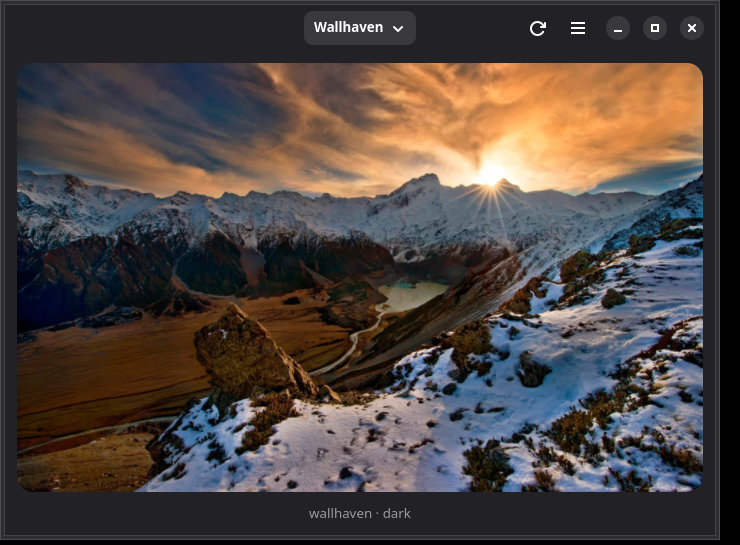
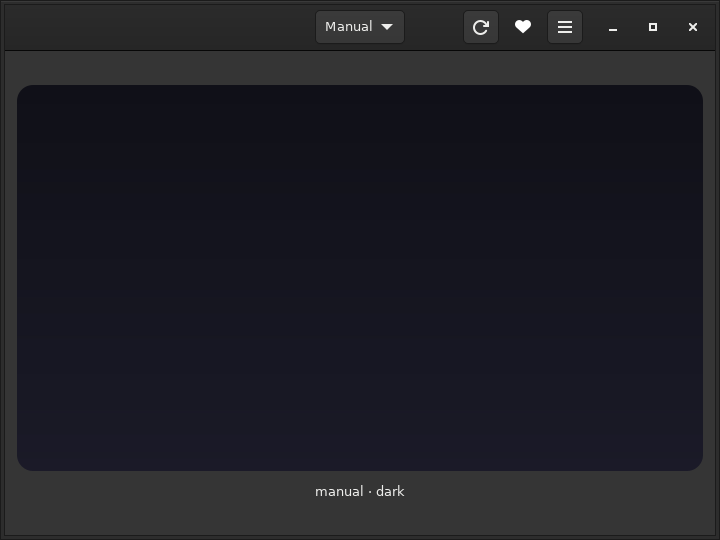
fix(ui): unlike animation + README screenshot refresh (#61)
* docs: refresh README screenshots (720x540, no dead margin)

Old screenshots were stale (pre-1.0 UI) and carried a black dead band on
the right/bottom from an oversized capture window. Re-captured at the
exact window content size on the dev VM: dark theme + dark wallpaper and
light theme + the same wallpaper.

* fix(ui): symmetric shrink animation when un-liking the heart

The pop animation only ran when a wallpaper was newly liked; removing a
favorite flipped the color back with no motion. Add a mirrored
heart-unpop keyframe set (scale 1 -> 0.82 -> 1, 250ms) driven by the
same CSS-class mechanism so the gesture feels symmetric in both
directions.

diff --git a/src/ui/window.rs b/src/ui/window.rs
@@ -144,6 +144,18 @@ impl Window {
             button.set_icon_name(crate::app::heart_icon_name());
             button.remove_css_class("liked");
             button.set_tooltip_text(Some("Add to Favorites"));
+            // Symmetric shrink on un-like: same pop class, reversed feel via
+            // the heart-unpop keyframes (scale down with a tiny undershoot).
+            if was_liked {
+                const UNPOP_CLASS: &str = "heart-unpop";
+                let target = button.clone();
+                button.remove_css_class(UNPOP_CLASS);
+                button.add_css_class(UNPOP_CLASS);
+                glib::timeout_add_local(std::time::Duration::from_millis(260), move || {
+                    target.remove_css_class(UNPOP_CLASS);
+                    glib::ControlFlow::Break
+                });
+            }
         }
     }
 

diff --git a/src/app.rs b/src/app.rs
@@ -99,7 +99,13 @@ fn load_css() {
            60% { transform: scale(1.25); }\n\
            100% { transform: scale(1); }\n\
          }\n\
-         button.heart-button.heart-pop { animation: heart-pop 250ms ease-out; }\n",
+         button.heart-button.heart-pop { animation: heart-pop 250ms ease-out; }\n\
+         @keyframes heart-unpop {\n\
+           0% { transform: scale(1); }\n\
+           55% { transform: scale(0.82); }\n\
+           100% { transform: scale(1); }\n\
+         }\n\
+         button.heart-button.heart-unpop { animation: heart-unpop 250ms ease-out; }\n",
     );
     if let Some(display) = gdk::Display::default() {
         gtk::style_context_add_provider_for_display(
